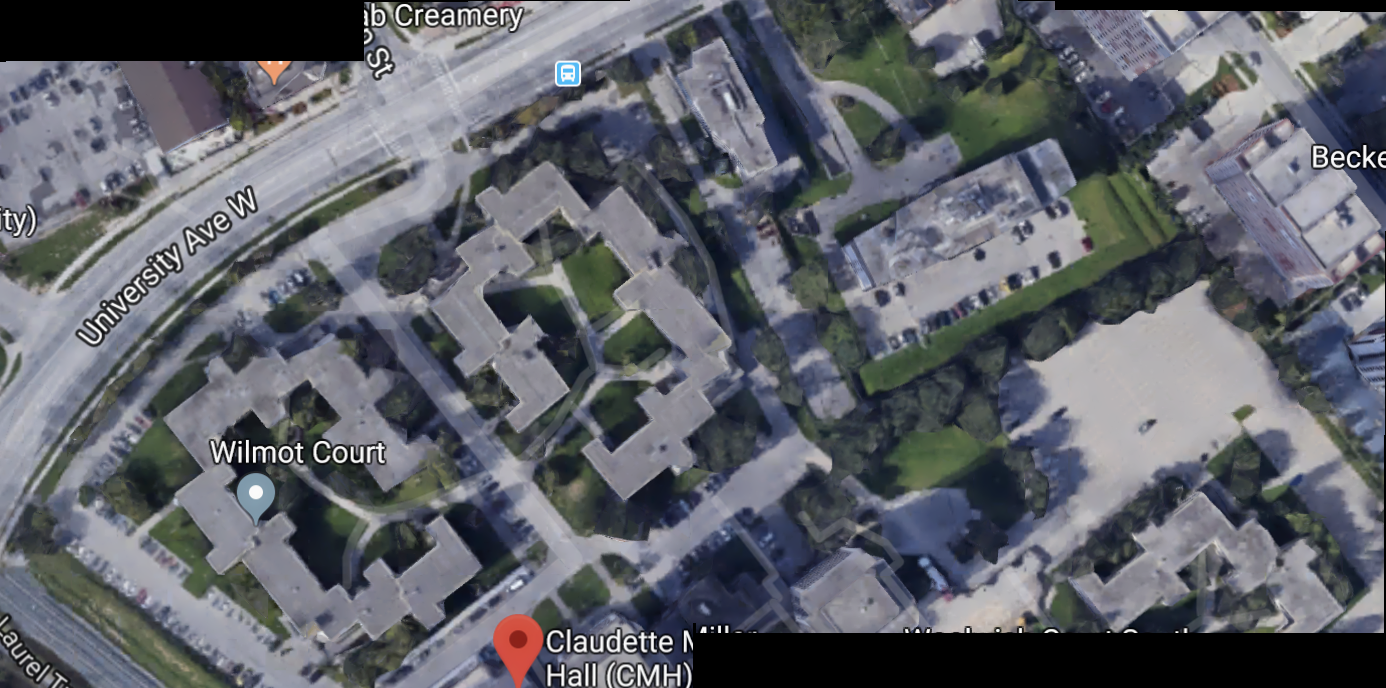
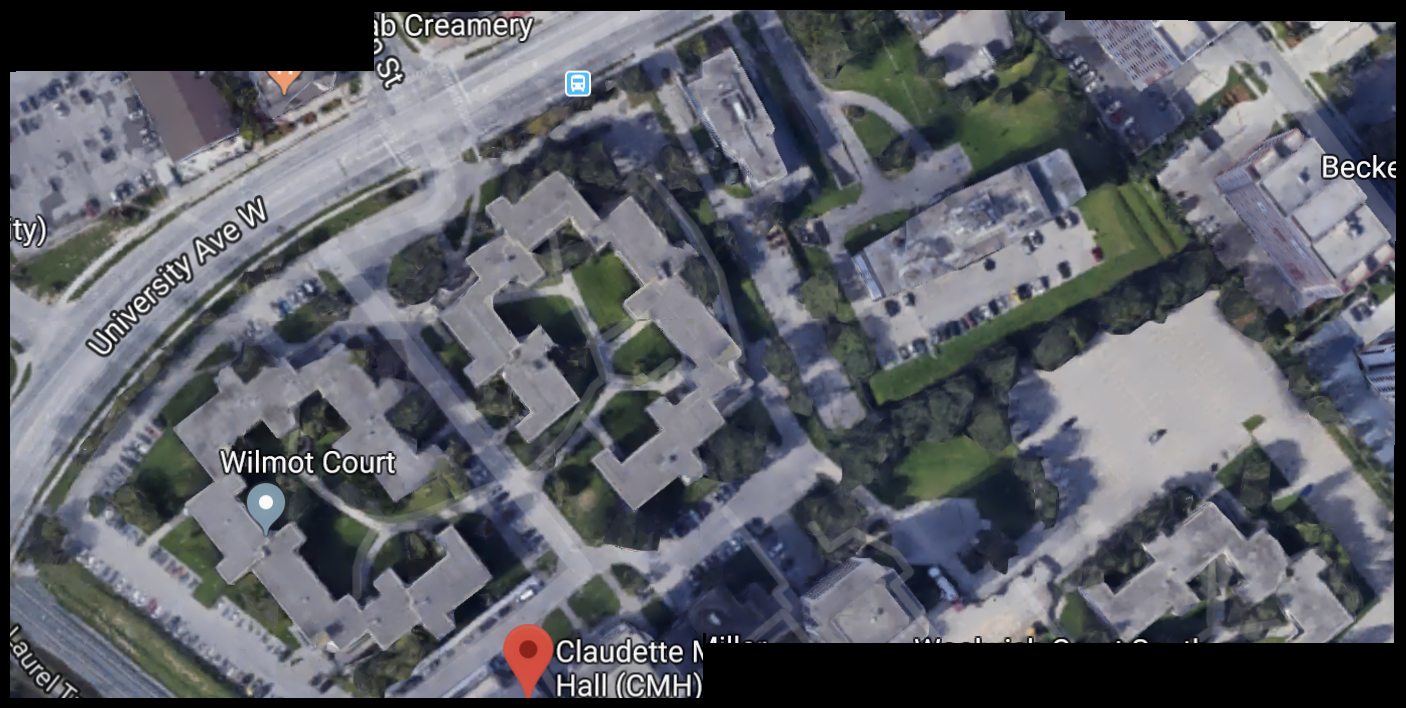
add greyscale and greying of images

diff --git a/image-stitching/image-stitching.py b/image-stitching/image-stitching.py
@@ -5,17 +5,9 @@ import argparse
 import imutils
 import cv2
 
-# Create argument parser, then parse arguments
-ap = argparse.ArgumentParser()
-ap.add_argument("-i", "--images", type=str, required=True,
-                help="path to input directory of images to stitch")
-ap.add_argument("-o", "--output", type=str, required=True,
-                help="path to the output image")
-args = vars(ap.parse_args())
-
 # grab the paths to the input images and initialize our images list
 print("Loading images...")
-imagePaths = sorted(list(paths.list_images(args["images"])))
+imagePaths = sorted(list(paths.list_images("images")))
 images = []
 
 # loop over the image paths, load each one, and add them to our
@@ -33,12 +25,22 @@ stitcher = cv2.createStitcher() if imutils.is_cv3() else cv2.Stitcher_create()
 # if the status is '0', then OpenCV successfully performed image
 # stitching
 if status == 0:
+    # Crop black bezel out of image
+    print("Croping images...")
+    stitched = cv2.copyMakeBorder(stitched, 10, 10, 10, 10,
+                                  cv2.BORDER_CONSTANT, (0, 0, 0))
+
+    # convert image to greyscale, then set foreground to be
+    # white (255), while background to be black (0)
+    gray = cv2.cvtColor(stitched, cv2.COLOR_BGR2GRAY)
+    thresh = cv2.threshold(gray, 0, 255, cv2.THRESH_BINARY)[1]
+
     # write the output stitched image to disk
-    cv2.imwrite(args["output"], stitched)
+    cv2.imwrite("output.png", stitched)
 
     # display the output stitched image to our screen
-    cv2.imshow("Stitched", stitched)
-    # cv2.waitKey(0)
+    cv2.imshow("Stitched", thresh)
+    cv2.waitKey(0)
 
 # otherwise the stitching failed, likely due to not enough keypoints)
 # being detected
